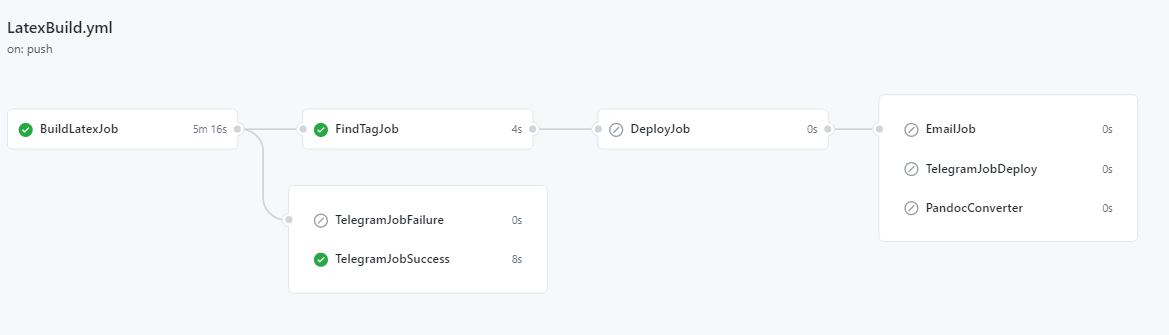
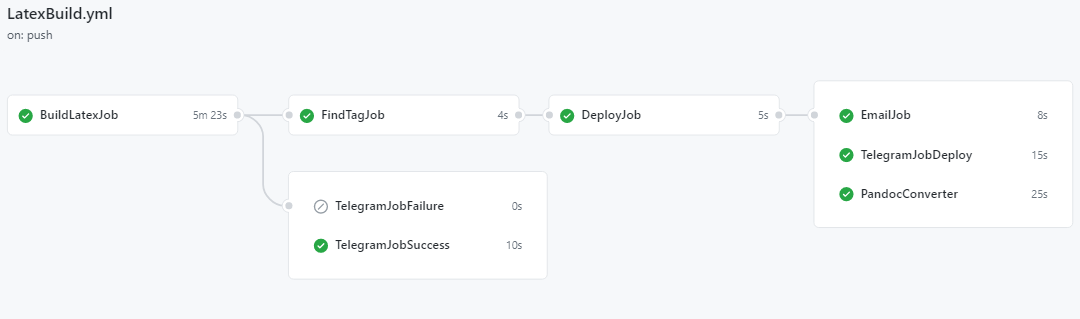
Abstract

diff --git a/Tex/DevProcess.tex b/Tex/DevProcess.tex
@@ -84,8 +84,14 @@ In questa sezione verrà spiegato come il progetto è stato organizzato dal punt
     I vari task sono stati divisi in categorie standard per lo Scrum: "to Do", "in Progress", "Done".
     
     \paragraph{Telegram}
-    Come strumento di messaggistica informale all'interno del gruppo, si è scelta la piattaforma Telegram. Accessibile facilmente da smartphone e da computer permette di aggiornare i componenti del gruppo immediatamente qualora vi siano delle urgenze. Il punto di forza rimane la  possibilità di spedire file di tutti i formati e di poter inserire nel gruppo dei BOT per automatizzare alcune azioni, tra cui le notifiche. Un'overview più chiara dell'utilizzo dei BOT verrà fornita nella \autoref{chap:CI}.
-    \subparagraph{Bot per Sondaggi} Per facilitare la coordinazione quotidiana è stato creato un bot per inviare i sondaggi sul gruppo Telegram. Questo sia poiché il progetto è stato svolto prevalentemente a distanza, sia perché alcune parti necessariamente hanno richiesto la presenza di tutto il team. 
+    Come strumento di messaggistica informale all'interno del gruppo, si è scelta la piattaforma Telegram. Accessibile facilmente da smartphone e da computer permette di aggiornare i componenti del gruppo immediatamente qualora vi siano delle urgenze. Il punto di forza rimane la  possibilità di spedire file di tutti i formati e di poter inserire nel gruppo dei BOT per automatizzare alcune azioni, tra cui le notifiche. Un'overview più chiara dell'utilizzo dei BOT per l'automatizzione verrà fornita nella \autoref{chap:CI}.
+    \subparagraph{Bot per Sondaggi} Per facilitare la coordinazione quotidiana è stato creato un bot per inviare i sondaggi sul gruppo Telegram. Questo sia poiché il progetto è stato svolto prevalentemente a distanza, sia perché alcune parti necessariamente hanno richiesto la presenza di tutto il team.
+    %immagine poll telegram
+    \begin{figure}[H]
+        \caption{Sondaggio giornaliero su Telegram}
+        \centering
+       \includegraphics[width=0.4\textwidth]{Images/pollTelegram.png}
+    \end{figure}
     
     \paragraph{Discord}
     Discord, nota piattaforma di comunicazione VoIP, è stato utilizzato invece come strumento di comunicazione formale. Si è creato un server apposito per il progetto, chiamato "SmartDogHouseChannel", con multiple stanze lavoro per diverse occasioni.
@@ -108,11 +114,17 @@ In questo capitolo si analizza la parte di integrazione e automatizzazione sia d
         Il Job successivo si occupa del deploy, e viene attivato solamente se è stato trovato un tag nella parte precedente. Questo Job scarica il pdf precedentemente generato negli artefatti e si occupa di farne una release con nome coerente e con il tag specificato. 
         Al termine della release vengono lanciati altri due Job, anch'essi dipendenti, che si occupano di notificarne il completamento. 
         Il primo usa una GitHub Actions per inoltrare una mail ai componenti del gruppo contenente il pdf della release. Per fare ciò si è dovuto creare un account Gmail specifico che funge da casella di invio. Si può inoltre sfruttare come account di notifica per un'eventuale newsletter agli iscritti ad ogni nuova release. 
-        Il secondo Job si occupa parallelamente di inoltrare un messaggio Telegram sul gruppo dei developers contenente anch'esso il pdf della release, il responsabile e il testo del commit.
+        Il secondo Job si occupa parallelamente di inoltrare un messaggio Telegram sul gruppo dei developers contenente anch'esso il pdf della release, il responsabile e il testo del commit. 
+        %immagine push telegram
+        \begin{figure}[H]
+            \caption{Avviso di push su Telegram}
+            \centering
+           \includegraphics[width=0.4\textwidth]{Images/pushTelegram.png}
+        \end{figure}
         Un ultimo Job è stato creato per gestire anche le GitHub Pages, le quali forniscono un sito in cui consultare la relazione online. Per fare ciò è stato   creato un nuovo branch sul quale viene fatto il commit dei file Html generati grazie a Pandoc.
         %TABELLA PIPELINE CI REPORT
-        \begin{figure}[ht]
-            \caption{Pipeline implementata, esecuzione di un commit senza tag}
+        \begin{figure}[H]
+            \caption{Pipeline implementata per l'esecuzione di un commit con release-tag}
             \centering
             \includegraphics[width=1\textwidth]{Images/RepoCI.png}
         \end{figure}

diff --git a/Tex/Sprints.tex b/Tex/Sprints.tex
@@ -21,6 +21,7 @@ Gli sprint sono stati portati avanti nel seguente modo:
 
 \section{Sprint 0}
 All'interno dello sprint 0 il focus è stato sullo scegliere le giuste tecnologie di sviluppo e sull'apprenderle in maniera sufficiente per il kick-off del progetto.
+L'obiettivo è stato raggiungere una conoscenza e competenza minima per sviluppare il design in maniera consapevole e ottimale.
 \paragraph{Deliverables} 
 al termine di questo sprint si sono acquisite le competenze di base per poter iniziare a lavorare con AWS e i dispositivi IoT. Inoltre ci si è portati avanti con lo scheletro del sito.
 \begin{itemize}
@@ -45,8 +46,11 @@ al termine di questo sprint sono state implementate le funzioni base dei maggior
 \end{itemize}
 
 \section{Sprint 2}
+Nello sprint 2 il focus è stato sul realizzare la logica d'orchestrazione della sensoristica e l'integrazione tra essa e l'applicativo attraverso il protocollo MQTT.
+\paragraph{Deliverables}
 \begin{itemize}
-    \item implementata coverage dei test Python, con relativa pagina web su github pages. Aggiunta Quality Assurance con SonarCloud, Codacy e Codefactor
+    \item implementata coverage dei test Python, con relativa pagina web su github pages. 
+    \item Aggiunta Quality Assurance con SonarCloud, Codacy e Codefactor
     \item implementata Continuous Delivery con GitHub Actions
 \end{itemize}
 

diff --git a/Tex/AnalysisRequirements.tex b/Tex/AnalysisRequirements.tex
@@ -92,7 +92,7 @@ In questa fase sono stati individuati i \textbf{requisiti del sistema}, partendo
 	\section{Requisiti Funzionali} %obbligatori, desiderabili e opzionali
 	    \subsection{Casi d'uso}
         	 %Diagramma dei casi d'uso
-            \begin{figure}[ht]
+            \begin{figure}[H]
                 \caption{Diagramma dei casi d'uso del sistema, rappresenta le principali azioni effettuate degli attori}
                 \centering
                \includegraphics[width=0.9\textwidth]{DrawIo/useCaseWholeSystem.png}

diff --git a/Tex/Abstract.tex b/Tex/Abstract.tex
@@ -1,4 +1,6 @@
 % -*- root: ../main.tex -*-
 \begin{abstract}
-%TODO riempire alla fine
+%TODO ricontrollare alla fine
+Il presente report contiene una descrizione dettagliata di 
+tutte le fasi di sviluppo del progetto SmartDogHouse. L'applicativo è volto a supportare le più comuni operazioni di gestione di un canile. Tale scopo verrà raggiunto grazie all'automatizzazione delle mansioni più ripetitive e al monitoraggio delle condizioni sia globali che dei singoli animali. 
 \end{abstract}
